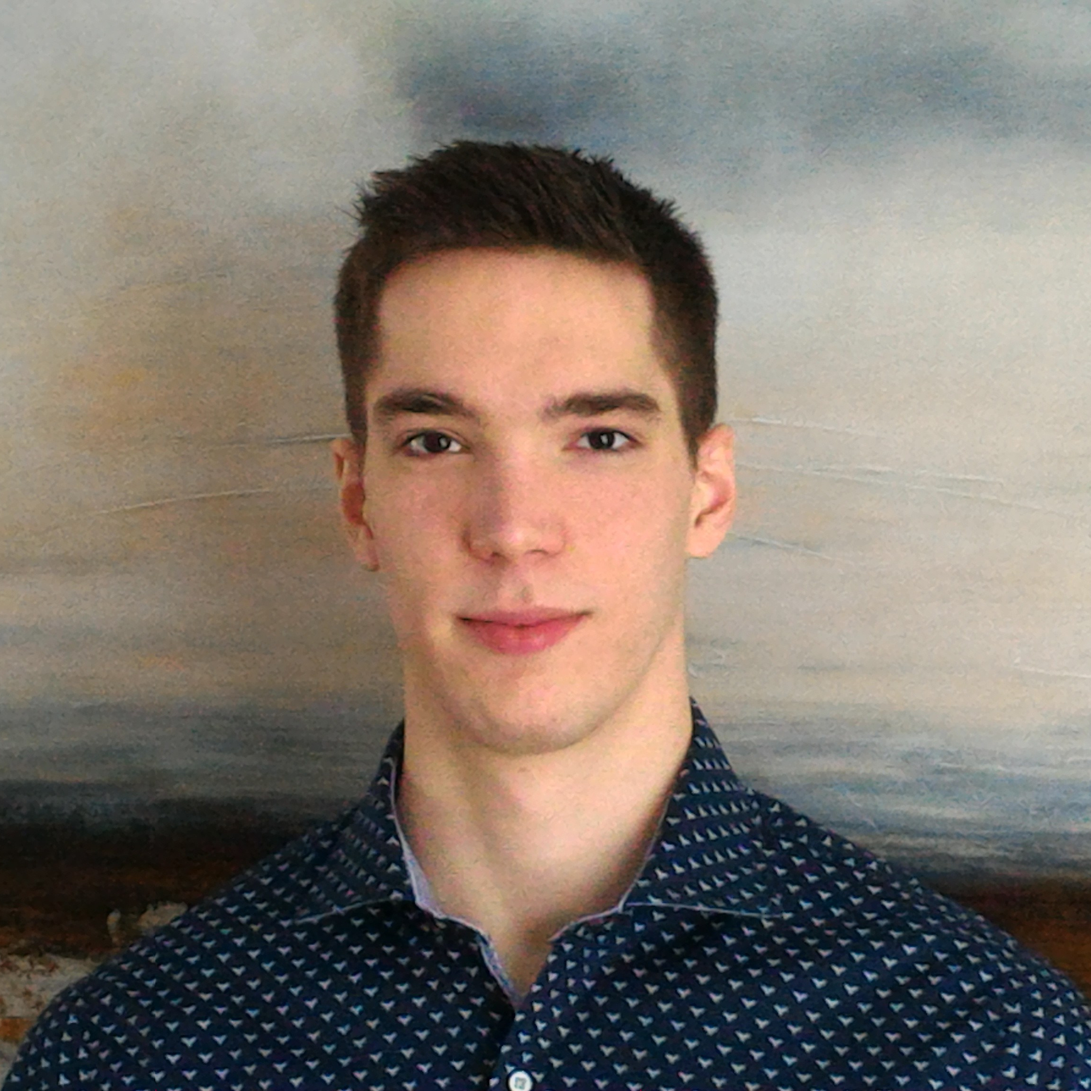
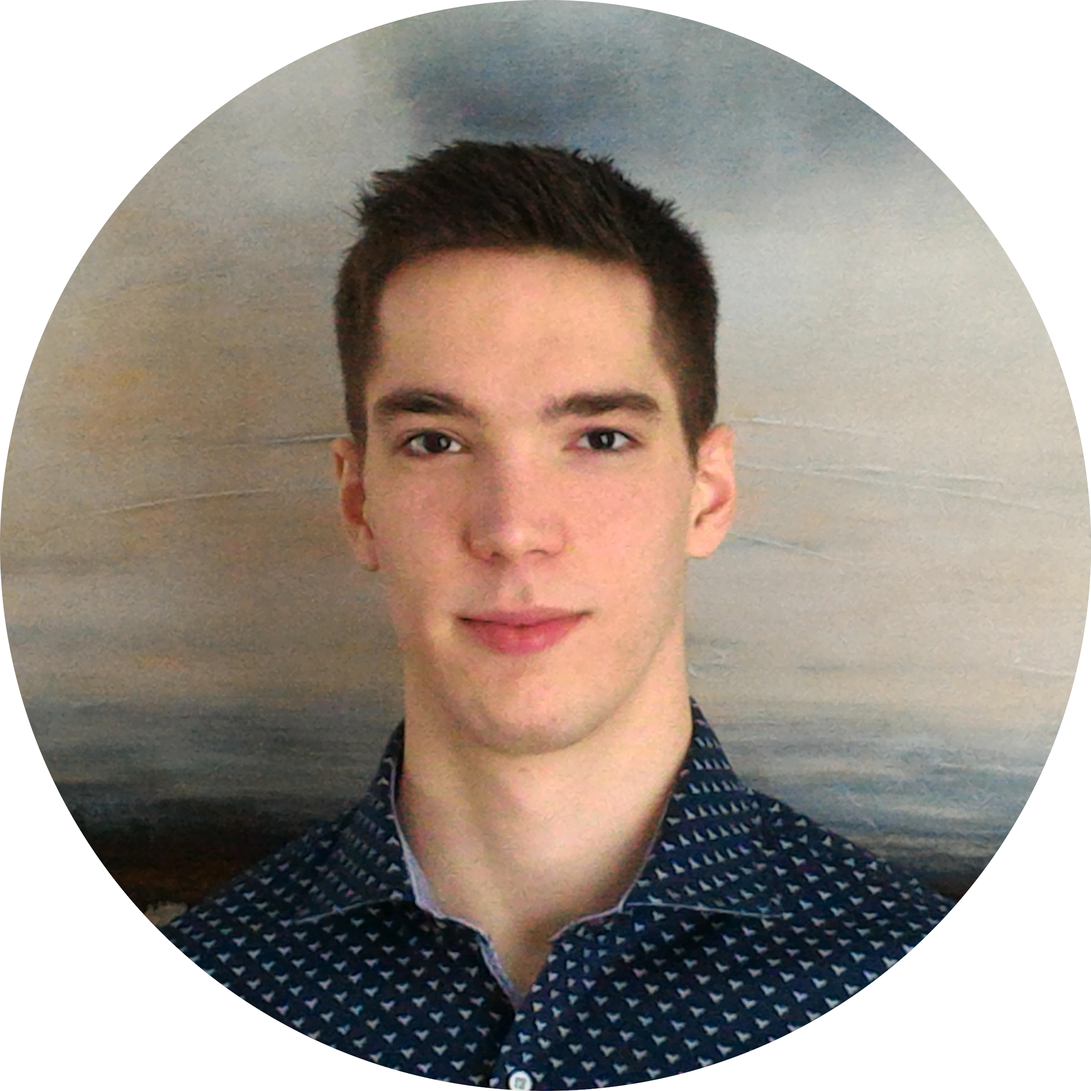
Modified profile picture and its size.

diff --git a/index.html b/index.html
@@ -7,6 +7,6 @@
 </head>
 
 <body>
-    <div id="profile_picture"><img src="images/profile.jpg" alt="Profile Picture"></div>
+    <div id="profile_picture"><img src="images/profile.jpg" alt="Profile Picture" width="972" height="972"></div>
 </body>
 </html>
